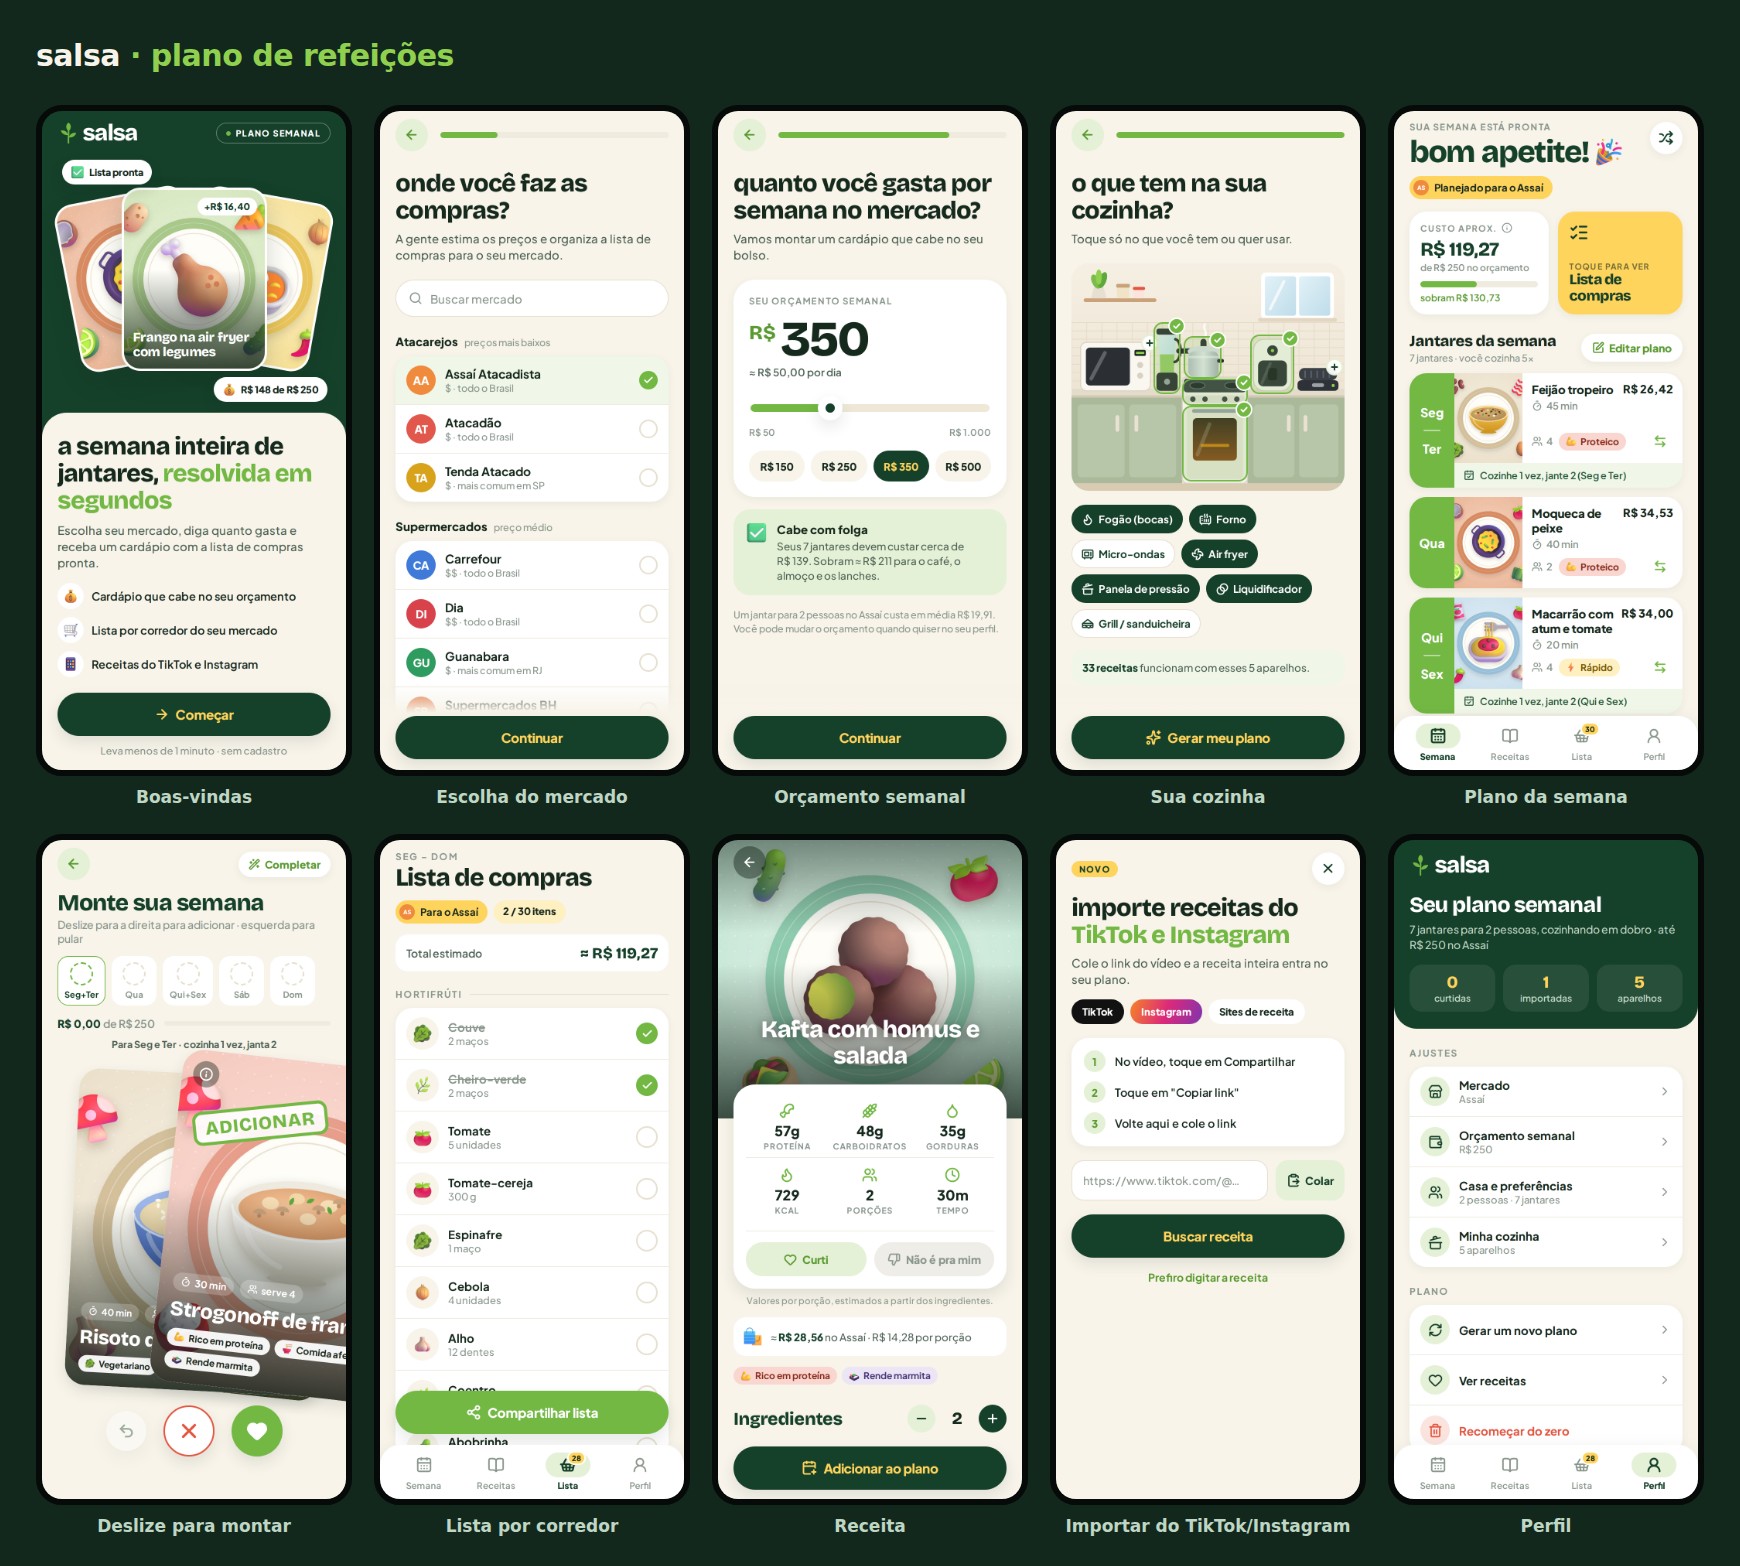
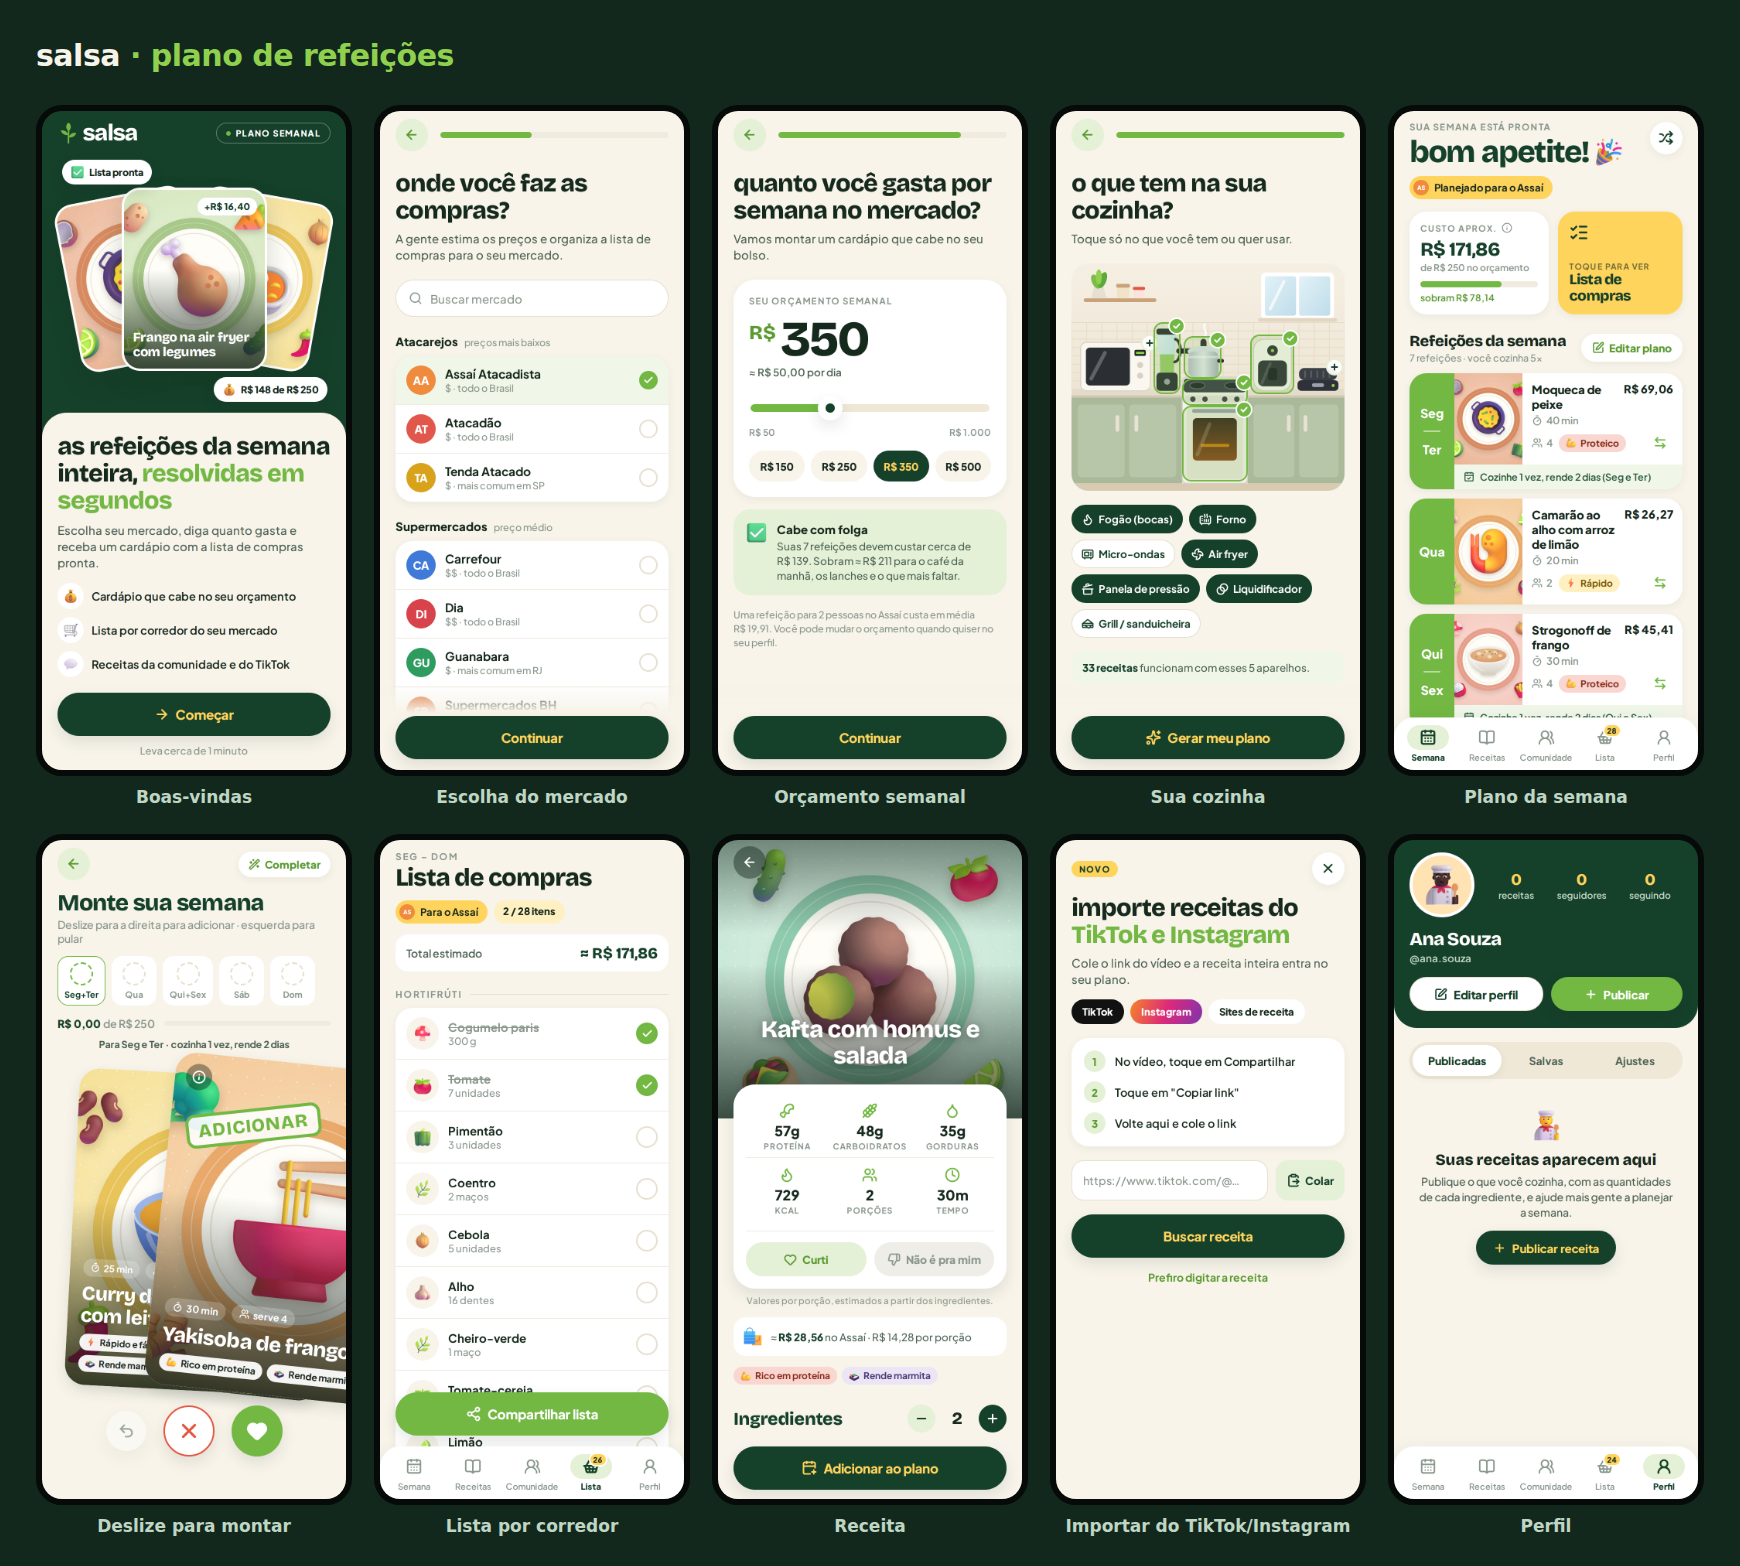
Talk about meals, not only dinners
The household step asked "quem janta com você?" and the whole app counted
"jantares". The plan works for any main meal, so the step now asks
"pra quantas pessoas você cozinha?", the setting is "Refeições por semana"
(one main meal a day, lunch or dinner), and the budget, plan, swipe deck,
profile and welcome texts follow. README and its overview image updated.

Claude-Session: https://claude.ai/code/session_017eZrnwc5F26Tw1k3hCF9hs

diff --git a/src/screens/onboarding/BudgetScreen.tsx b/src/screens/onboarding/BudgetScreen.tsx
@@ -48,23 +48,23 @@ export function BudgetScreen({ navigation }: RootScreenProps<'Budget' | 'EditBud
           emoji: 'check-mark-button',
           tone: 'ok',
           title: 'Cabe com folga',
-          text: `Seus ${profile.dinners} jantares devem custar cerca de ${brl(estimate.typical, { cents: false })}. Sobram ≈ ${brl(
+          text: `Suas ${profile.dinners} refeições devem custar cerca de ${brl(estimate.typical, { cents: false })}. Sobram ≈ ${brl(
             budget - estimate.typical,
             { cents: false },
-          )} para o café, o almoço e os lanches.`,
+          )} para o café da manhã, os lanches e o que mais faltar.`,
         }
       : budget >= estimate.minimum
         ? {
             emoji: 'coin',
             tone: 'tight',
             title: 'Dá pra fazer',
-            text: `Vamos priorizar receitas mais econômicas para seus ${profile.dinners} jantares caberem em ${brl(budget, { cents: false })}.`,
+            text: `Vamos priorizar receitas mais econômicas para suas ${profile.dinners} refeições caberem em ${brl(budget, { cents: false })}.`,
           }
         : {
             emoji: 'warning',
             tone: 'low',
             title: 'Orçamento apertado',
-            text: `Jantares para ${profile.people} ${profile.people === 1 ? 'pessoa' : 'pessoas'} no ${marketName} saem por pelo menos ≈ ${brl(
+            text: `Refeições para ${profile.people} ${profile.people === 1 ? 'pessoa' : 'pessoas'} no ${marketName} saem por pelo menos ≈ ${brl(
               estimate.minimum,
               { cents: false },
             )}. Vamos montar o plano mais econômico possível.`,
@@ -168,7 +168,7 @@ export function BudgetScreen({ navigation }: RootScreenProps<'Budget' | 'EditBud
       </View>
 
       <Text style={styles.note}>
-        Um jantar para {profile.people} {profile.people === 1 ? 'pessoa' : 'pessoas'} no {marketName} custa em média{' '}
+        Uma refeição para {profile.people} {profile.people === 1 ? 'pessoa' : 'pessoas'} no {marketName} custa em média{' '}
         {brl(estimate.perDinner)}. Você pode mudar o orçamento quando quiser no seu perfil.
       </Text>
     </StepLayout>

diff --git a/src/screens/onboarding/HouseholdScreen.tsx b/src/screens/onboarding/HouseholdScreen.tsx
@@ -48,7 +48,7 @@ export function HouseholdScreen({ navigation }: RootScreenProps<'Household' | 'E
       step={onboarded ? undefined : 3}
       editLabel="Casa e preferências"
       onBack={() => navigation.goBack()}
-      title="quem janta com você?"
+      title="pra quantas pessoas você cozinha?"
       subtitle="Assim a gente acerta as porções e as quantidades da lista."
       footer={<Button label={onboarded ? 'Salvar e refazer plano' : 'Continuar'} onPress={save} />}
     >
@@ -74,7 +74,8 @@ export function HouseholdScreen({ navigation }: RootScreenProps<'Household' | 'E
       </View>
 
       <View style={styles.card}>
-        <Text style={styles.cardTitle}>Jantares por semana</Text>
+        <Text style={styles.cardTitle}>Refeições por semana</Text>
+        <Text style={styles.cardText}>Uma refeição principal por dia, almoço ou jantar.</Text>
         <View style={styles.segment}>
           {[3, 4, 5, 6, 7].map((n) => {
             const active = n === dinners;
@@ -83,7 +84,7 @@ export function HouseholdScreen({ navigation }: RootScreenProps<'Household' | 'E
                 key={n}
                 accessibilityRole="radio"
                 accessibilityState={{ checked: active }}
-                accessibilityLabel={`${n} jantares por semana`}
+                accessibilityLabel={`${n} refeições por semana`}
                 onPress={() => {
                   haptics.select();
                   setDinners(n);
@@ -101,7 +102,8 @@ export function HouseholdScreen({ navigation }: RootScreenProps<'Household' | 'E
         <View style={{ flex: 1 }}>
           <Text style={styles.cardTitle}>Cozinhar em dobro</Text>
           <Text style={styles.cardText}>
-            Cozinhe uma vez e jante duas: sobra pro dia seguinte. {batch ? `Você vai cozinhar ${sessions}× na semana.` : ''}
+            Cozinhe uma vez e coma em dois dias: a sobra vai pro dia seguinte.{' '}
+            {batch ? `Você vai cozinhar ${sessions}× na semana.` : ''}
           </Text>
         </View>
         <Switch

diff --git a/src/screens/BuildWeekScreen.tsx b/src/screens/BuildWeekScreen.tsx
@@ -181,8 +181,8 @@ export function BuildWeekScreen({ navigation }: RootScreenProps<'BuildWeek'>) {
           <Emoji name="face-savoring-food" size={72} />
           <Text style={[type.h3, { textAlign: 'center', marginTop: 12 }]}>Acabaram as sugestões</Text>
           <Text style={[type.body, { textAlign: 'center', marginTop: 6 }]}>
-            Faltam {slots.length - picked.length} {slots.length - picked.length === 1 ? 'jantar' : 'jantares'}. Quer que a gente
-            complete?
+            Faltam {slots.length - picked.length} {slots.length - picked.length === 1 ? 'refeição' : 'refeições'}. Quer que a
+            gente complete?
           </Text>
           <View style={{ alignSelf: 'stretch', gap: 10, marginTop: 20 }}>
             <Button label="Completar automaticamente" icon={WandSparkles} onPress={autoFill} />
@@ -193,7 +193,7 @@ export function BuildWeekScreen({ navigation }: RootScreenProps<'BuildWeek'>) {
         <>
           <View style={[styles.deck, { height: cardH + 26 }]}>
             {currentSlot.length > 1 ? (
-              <Text style={styles.slotHint}>Para {daysLabel(currentSlot)} · cozinha 1 vez, janta 2</Text>
+              <Text style={styles.slotHint}>Para {daysLabel(currentSlot)} · cozinha 1 vez, rende 2 dias</Text>
             ) : (
               <Text style={styles.slotHint}>Para {daysLabel(currentSlot, 'long').toLowerCase()}</Text>
             )}

diff --git a/src/screens/onboarding/WelcomeScreen.tsx b/src/screens/onboarding/WelcomeScreen.tsx
@@ -92,7 +92,7 @@ export function WelcomeScreen({ navigation }: RootScreenProps<'Welcome'>) {
 
       <View style={[styles.sheet, { paddingBottom: insets.bottom + 16 }]}>
         <Text style={[type.h1, compact && { fontSize: 29, lineHeight: 32 }]} accessibilityRole="header">
-          a semana inteira de jantares, <Text style={{ color: colors.leaf }}>resolvida em segundos</Text>
+          as refeições da semana inteira, <Text style={{ color: colors.leaf }}>resolvidas em segundos</Text>
         </Text>
         <Text style={styles.sub}>Escolha seu mercado, diga quanto gasta e receba um cardápio com a lista de compras pronta.</Text>
         <View style={styles.features}>

diff --git a/src/screens/PlanScreen.tsx b/src/screens/PlanScreen.tsx
@@ -141,9 +141,9 @@ export function PlanScreen({ navigation }: TabScreenProps<'Plan'>) {
 
       <View style={styles.sectionRow}>
         <View>
-          <Text style={styles.sectionTitle}>Jantares da semana</Text>
+          <Text style={styles.sectionTitle}>Refeições da semana</Text>
           <Text style={styles.sectionSub}>
-            {plural(dinners, 'jantar', 'jantares')} · você cozinha {entries.length}×
+            {plural(dinners, 'refeição', 'refeições')} · você cozinha {entries.length}×
           </Text>
         </View>
         <Pressable

diff --git a/src/components/DayCard.tsx b/src/components/DayCard.tsx
@@ -78,7 +78,7 @@ export function DayCard({ entry, recipe, people, marketIndex, onPress, onSwap }:
           <View style={styles.batch}>
             <CalendarCheck size={14} color={colors.forestSoft} strokeWidth={2.2} />
             <Text style={styles.batchText} numberOfLines={1}>
-              Cozinhe 1 vez, jante 2 ({daysLabel(entry.days)})
+              Cozinhe 1 vez, rende {entry.days.length} dias ({daysLabel(entry.days)})
             </Text>
           </View>
         ) : null}

diff --git a/src/screens/onboarding/GeneratingScreen.tsx b/src/screens/onboarding/GeneratingScreen.tsx
@@ -75,7 +75,7 @@ export function GeneratingScreen(_props: RootScreenProps<'Generating'>) {
         </View>
         <Text style={styles.title}>montando sua semana…</Text>
         <Text style={styles.sub}>
-          {profile.dinners} jantares para {profile.people} {profile.people === 1 ? 'pessoa' : 'pessoas'}
+          {profile.dinners} refeições para {profile.people} {profile.people === 1 ? 'pessoa' : 'pessoas'}
         </Text>
       </View>
       <View style={styles.list}>

diff --git a/src/screens/ProfileScreen.tsx b/src/screens/ProfileScreen.tsx
@@ -210,7 +210,7 @@ function Settings({ navigation, signedIn }: { navigation: TabScreenProps<'Profil
       title: 'Casa e preferências',
       value: [
         plural(profile.people, 'pessoa', 'pessoas'),
-        plural(profile.dinners, 'jantar', 'jantares'),
+        plural(profile.dinners, 'refeição', 'refeições'),
         ...profile.prefs.map((p) => PREF_LABELS[p]),
       ].join(' · '),
       onPress: () => navigation.navigate('EditHousehold'),

diff --git a/README.md b/README.md
@@ -1,6 +1,6 @@
 # salsa — plano de refeições
 
-App mobile (iOS e Android), feito com Expo e React Native, que monta os jantares da semana de acordo com o **mercado** onde você compra, o **orçamento** semanal e os **aparelhos** que você tem em casa. Ele também gera a lista de compras organizada por corredor.
+App mobile (iOS e Android), feito com Expo e React Native, que monta as refeições da semana de acordo com o **mercado** onde você compra, o **orçamento** semanal e os **aparelhos** que você tem em casa. Ele também gera a lista de compras organizada por corredor.
 
 Cada pessoa tem um **perfil** e pode publicar suas receitas na **comunidade**, sempre com a quantidade de cada ingrediente, que aparece também dentro de cada passo do preparo. Quem vê pode curtir, comentar, **salvar** e **colocar a receita no cardápio da semana** com um toque (a lista de compras se atualiza sozinha).
 
@@ -17,14 +17,14 @@ A ideia segue o app Herbi (plano semanal, "deslize para montar a semana", import
 1. **Boas-vindas**
 2. **Crie seu perfil** — nome, @usuário (sugerido a partir do nome, com checagem de disponibilidade), foto ou avatar, cidade e bio. Com servidor configurado, também e-mail e senha ("Criar conta" / "Já tenho conta").
 3. **Onde você faz as compras?** — escolha do mercado (Assaí, Atacadão, Carrefour, Pão de Açúcar, Dia, Guanabara… ou "outro mercado"), com busca e faixa de preço ($, $$, $$$).
-4. **Quem janta com você?** — pessoas, jantares por semana, "cozinhar em dobro" e preferências (vegetariano, sem lactose, sem glúten, mais proteína, menos carboidrato).
+4. **Pra quantas pessoas você cozinha?** — pessoas, refeições por semana (uma principal por dia, almoço ou jantar), "cozinhar em dobro" e preferências (vegetariano, sem lactose, sem glúten, mais proteína, menos carboidrato).
 5. **Quanto você gasta por semana no mercado?** — orçamento com controle deslizante, valores rápidos e um aviso se o valor cabe, fica apertado ou é baixo para o mercado escolhido.
 6. **O que tem na sua cozinha?** — cozinha ilustrada: toque em fogão, forno, micro-ondas, air fryer, panela de pressão, liquidificador e grill.
 7. **Montando sua semana…**
 
 **App**
 
-- **Semana ("bom apetite!")** — custo aproximado × orçamento, atalho para a lista, jantares por dia com preço, tempo, porções e o aviso "cozinhe 1 vez, jante 2". Ainda tem trocar receita (⇄), gerar outro plano e ajustar ao orçamento.
+- **Semana ("bom apetite!")** — custo aproximado × orçamento, atalho para a lista, a refeição de cada dia com preço, tempo, porções e o aviso "cozinhe 1 vez, rende 2 dias". Ainda tem trocar receita (⇄), gerar outro plano e ajustar ao orçamento.
 - **Monte sua semana** — deslize para a direita para adicionar e para a esquerda para pular. Tem desfazer e "completar automaticamente".
 - **Lista de compras** — agrupada por corredor, com quantidades já somadas, itens para marcar, total estimado, itens extras e compartilhamento.
 - **Receita** — proteína, carboidratos, gorduras, kcal, porções e tempo, botões "Curti" e "Não é pra mim", ingredientes que se ajustam ao número de porções, modo de preparo com a quantidade de cada ingrediente embaixo do passo em que ele é usado e o botão "Adicionar ao plano".
